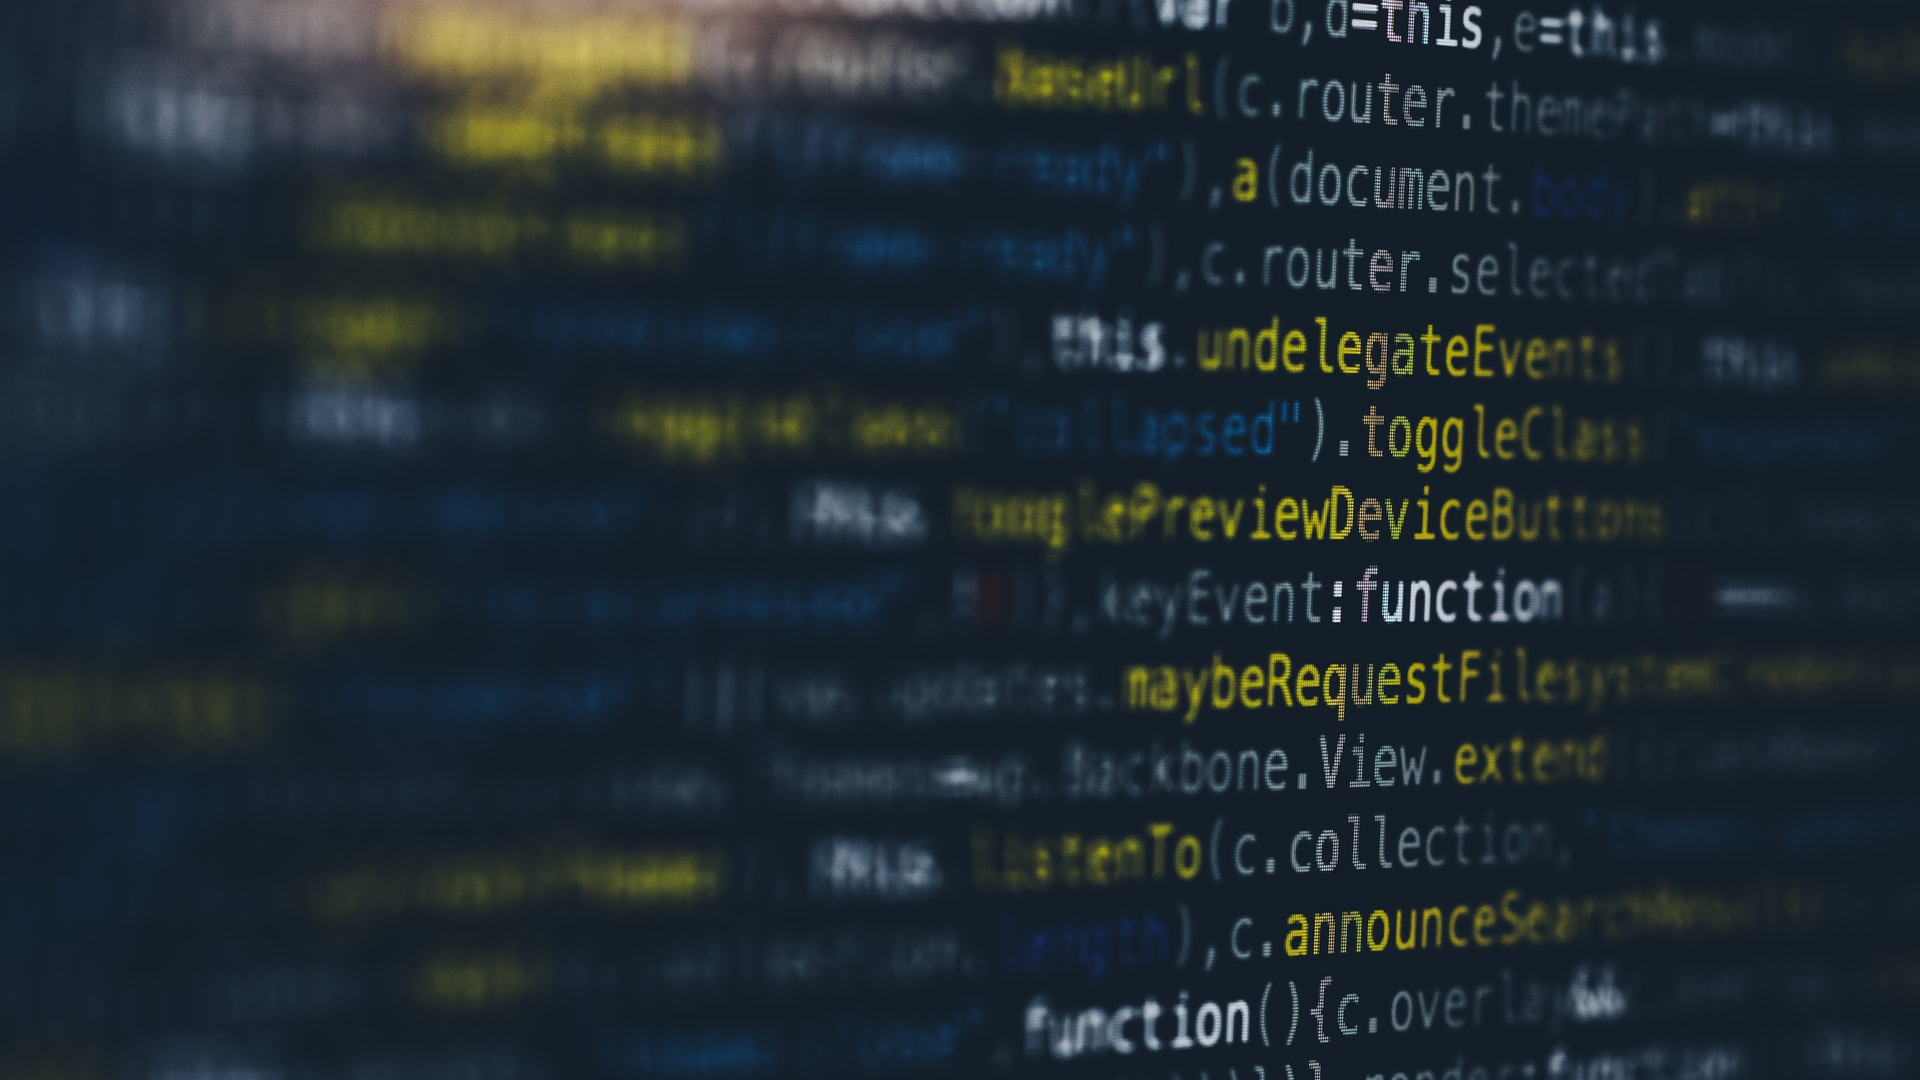
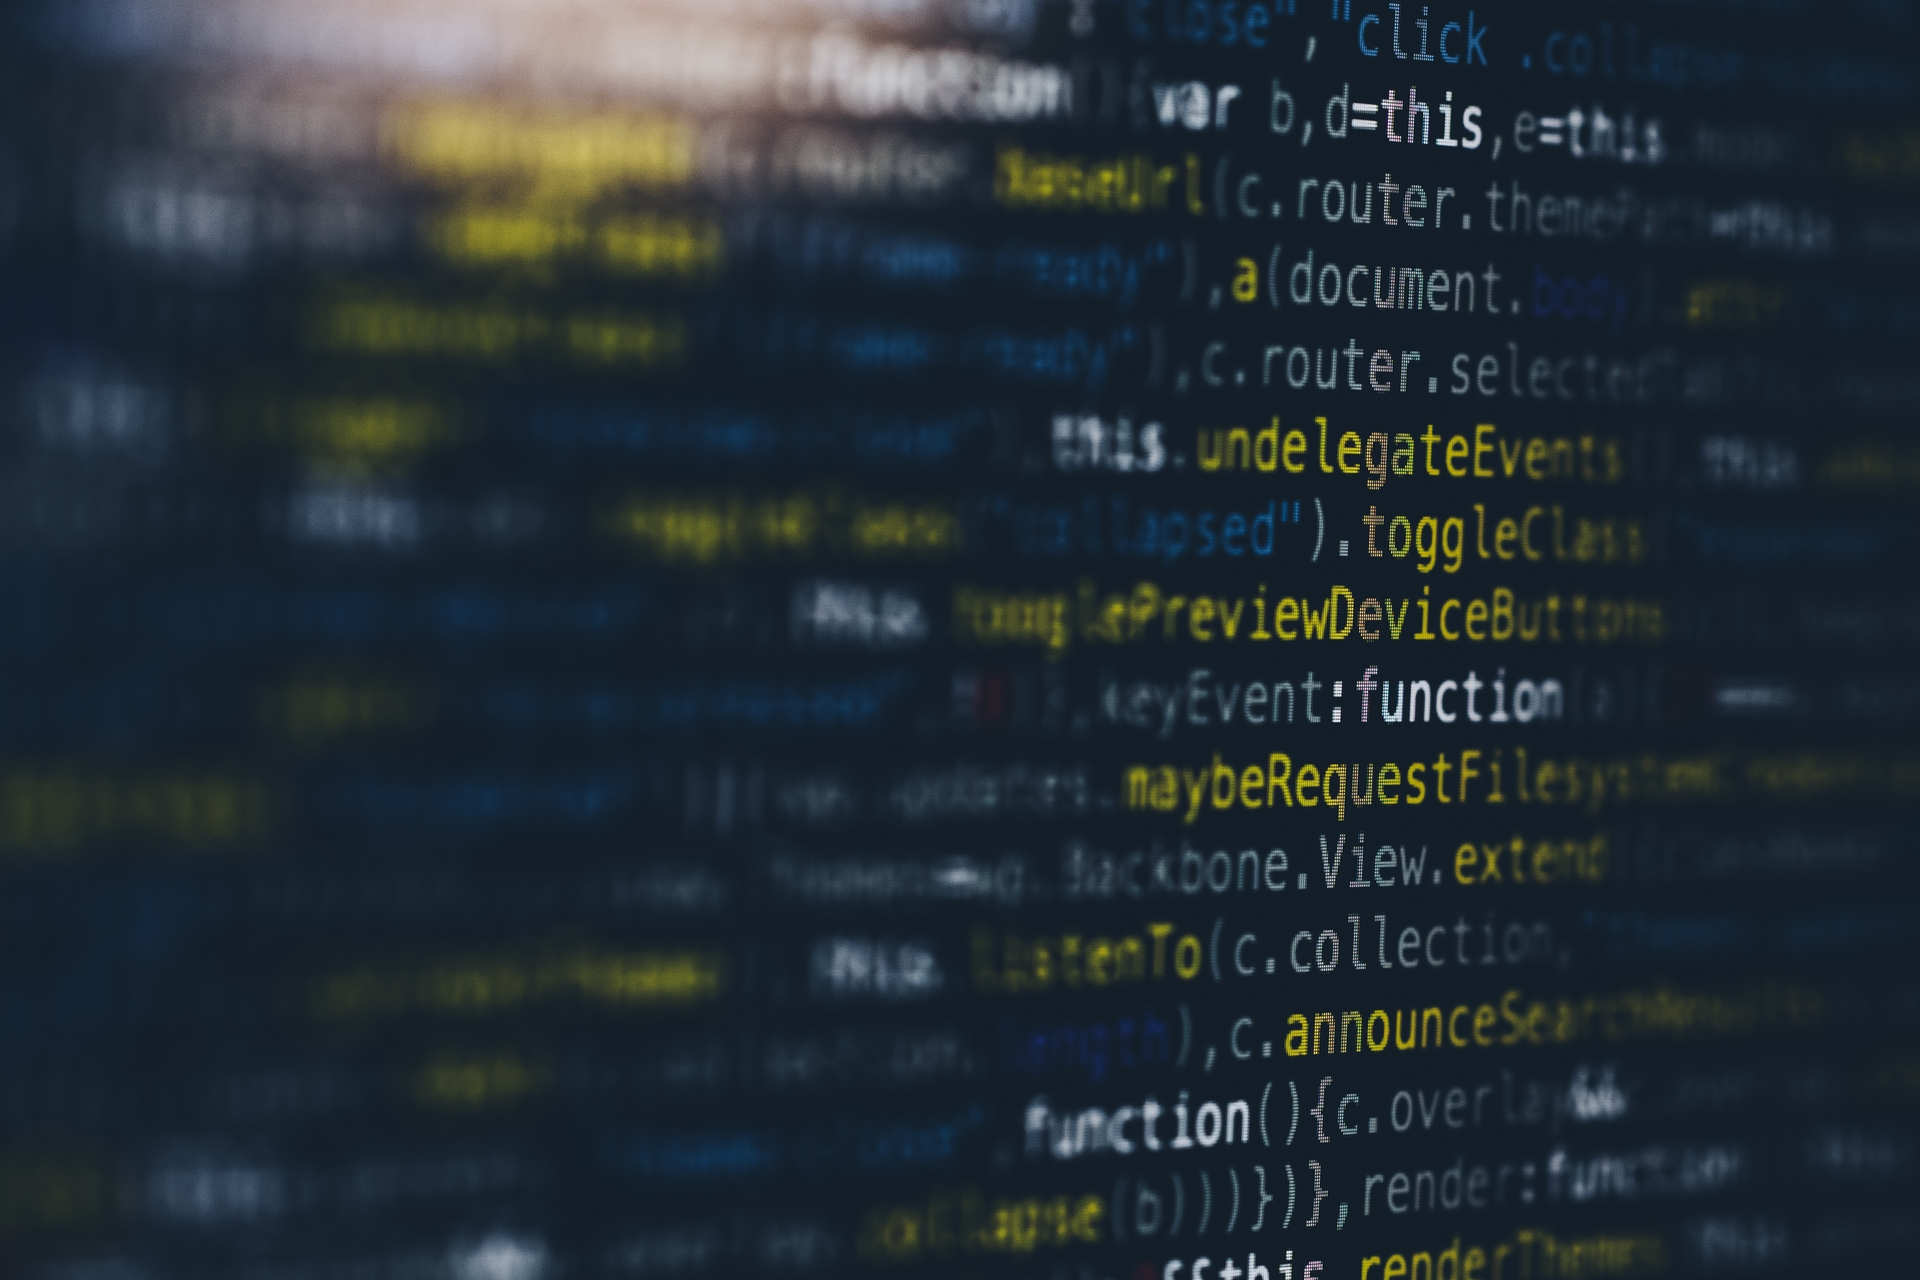
updated BG quality, added enter button.

diff --git a/src/app/landing/landing.component.scss b/src/app/landing/landing.component.scss
@@ -1,69 +1,123 @@
 @import url("https://fonts.googleapis.com/css?family=Montserrat:400,700&display=swap");
 @import "../../styles/_variables";
+
 .box-style {
+  animation: transitionIn 3s;
+  display: block;
   margin-top: 20px;
   margin-bottom: 20px;
   padding: 20px;
   text-align: center;
   text-shadow: 1px 0px 7px rgba(0, 0, 0, 1),
-               3px 2px 15px rgba(255, 255, 255, 0.8),
-               0px 0px 10px rgba(255, 255, 255, 0.1);
+    3px 2px 15px rgba(255, 255, 255, 0.8),
+    0px 0px 10px rgba(255, 255, 255, 0.1);
   border-radius: 20px;
   border: 1px solid rgba(255, 255, 255, 0.1);
   background-color: rgba(0, 0, 0, 0.7);
-  color: white;
+  color: $light;
+
   .color-primary {
     color: $primary;
   }
 }
+
 .landingpage {
-  font-family: 'montserrat' ;
-  height: 100vh;
+  font-family: 'montserrat';
+  height: 91vh;
   width: 100vw;
   background: url(../../assets/IMGS/CodeBG.jpg);
   background-position: fixed;
   background-repeat: no-repeat;
   background-size: cover;
+
   hr {
     border: 0px;
     height: 1px;
     background-image: linear-gradient(to right, rgba(0, 0, 0, 0), rgba(255, 255, 255, 0.75), rgba(0, 0, 0, 0));
   }
-  h1{
+
+  h1 {
     text-transform: uppercase;
     font-weight: 400;
     letter-spacing: 0.2em;
   }
+
   .row:nth-of-type(1) {
-    padding-top: calc(25vh - 50px); /*for navbar height */
+    padding-top: calc(25vh - 50px);
+    /*for navbar height */
   }
+
   .row:nth-of-type(2) {
     margin-top: 60px;
   }
+
+  .welcome-msg {
+    .typewriter p{
+      text-align: left;
+      overflow: hidden;
+      /* Ensures the content is not revealed until the animation */
+      border-right: .15em solid $primary;
+      /* The typwriter cursor */
+      white-space: nowrap;
+      /* Keeps the content on a single line */
+      margin: 0 auto;
+      /* Gives that scrolling effect as the typing happens */
+      letter-spacing: .15em;
+      /* Adjust as needed */
+      animation:
+        typing 2.5s steps(30, end),
+        blink-caret .75s step-end infinite;
+
+    }
+  }
+  .enter-btn:hover{
+    transition: 0.7s;
+    color: $light;
+    border: 1px solid $primary;
+    & fa-icon {
+      color: $primary;
+    }
+  }
 }
 
+// transition in
+@keyframes transitionIn {
+  0% {
+    display: none;
+    opacity: 0;
+  }
 
+  1% {
+    display: block;
+    opacity: 0;
+  }
 
-.typewriter p {
-  text-align: left;
-  overflow: hidden; /* Ensures the content is not revealed until the animation */
-  border-right: .15em solid $primary; /* The typwriter cursor */
-  white-space: nowrap; /* Keeps the content on a single line */
-  margin: 0 auto; /* Gives that scrolling effect as the typing happens */
-  letter-spacing: .15em; /* Adjust as needed */
-  animation: 
-    typing 3.5s steps(30, end) 3s,
-    blink-caret .75s step-end infinite 3s;
+  100% {
+    display: block;
+    opacity: 1;
+  }
 }
 
 /* The typing effect */
 @keyframes typing {
-  from { width: 0 }
-  to { width: 100% }
+  from {
+    width: 0
+  }
+
+  to {
+    width: 100%
+  }
 }
 
 /* The typewriter cursor effect */
 @keyframes blink-caret {
-  from, to { border-color: transparent }
-  50% { border-color: $primary; }
+
+  from,
+  to {
+    border-color: transparent
+  }
+
+  50% {
+    border-color: $primary;
+  }
 }

diff --git a/src/app/app.module.ts b/src/app/app.module.ts
@@ -4,22 +4,20 @@ import { FormsModule } from '@angular/forms';
 
 import { FontAwesomeModule, FaIconLibrary } from '@fortawesome/angular-fontawesome';
 // Import icons under this line
-import { faArrowDown, faAppleAlt, faCoffee, faEdit, faSquare, faCode, faTerminal } from '@fortawesome/free-solid-svg-icons';
+import { faArrowDown, faAppleAlt, faCoffee, faEdit, faSquare, faCode, faTerminal, faAngleDoubleRight } from '@fortawesome/free-solid-svg-icons';
 import { faInstagram, faLinkedinIn, faGithub } from '@fortawesome/free-brands-svg-icons';
 
 import { AppComponent } from './app.component';
 import { LandingComponent } from './landing/landing.component';
 import { FooterComponent } from './footer/footer.component';
 import { NavbarComponent } from './navbar/navbar.component';
-import { TwoWayDataComponent } from './two-way-data/two-way-data.component';
 
 @NgModule({
   declarations: [
     AppComponent,
     LandingComponent,
     FooterComponent,
-    NavbarComponent,
-    TwoWayDataComponent
+    NavbarComponent
   ],
   imports: [
     BrowserModule,
@@ -32,6 +30,6 @@ import { TwoWayDataComponent } from './two-way-data/two-way-data.component';
 export class AppModule { 
   constructor(private library: FaIconLibrary) {
     // Add an icons to the library for convenient access in other components.
-    library.addIcons(faArrowDown, faAppleAlt, faCoffee, faEdit, faSquare, faInstagram, faLinkedinIn, faGithub, faCode, faTerminal );
+    library.addIcons(faArrowDown, faAppleAlt, faCoffee, faEdit, faSquare, faInstagram, faLinkedinIn, faGithub, faCode, faTerminal, faAngleDoubleRight );
   }
 }

diff --git a/src/app/landing/landing.component.html b/src/app/landing/landing.component.html
@@ -4,13 +4,24 @@
       <hr>
       <h1> Dennis Meijboom</h1>
       <hr>
-      <p>Web Developer <br><fa-icon  class="color-primary" icon="code"></fa-icon><br> Web Designer</p>
+      <p>Web Developer <br>
+        <fa-icon class="color-primary" icon="code"></fa-icon><br> 
+        Web Designer
+      </p>
 
     </div>
   </div>
-  <div class="row justify-content-center" id="scroll">
-    <div class="box-style typewriter">
-    <p><fa-icon class="color-primary" icon="terminal"></fa-icon> Welcome on my website.</p>
+  <div class="row justify-content-center welcome-msg">
+    <div class="box-style">
+      <span class="typewriter">
+        <p>
+          <fa-icon class="color-primary" icon="terminal"></fa-icon> Welcome to my website.
+        </p>
+      </span>
     </div>
+  </div>
+
+  <div class="row justify-content-center">
+    <button class="box-style enter-btn">Enter <fa-icon icon="angle-double-right"></fa-icon> </button>
   </div>
 </div>

diff --git a/src/app/landing/landing.component.ts b/src/app/landing/landing.component.ts
@@ -6,7 +6,7 @@ import { Component, OnInit } from '@angular/core';
   styleUrls: ['./landing.component.scss']
 })
 export class LandingComponent implements OnInit {
-  
+
   constructor() { }
 
   ngOnInit() {

diff --git a/src/app/app.component.html b/src/app/app.component.html
@@ -1,5 +1,4 @@
 <!-- navbar -->
-<app-two-way-data></app-two-way-data>
 <app-navbar></app-navbar>
 <app-landing></app-landing>
 <app-footer></app-footer>
